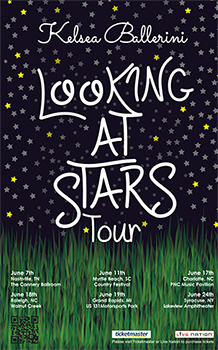
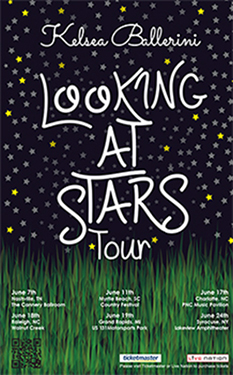
css has changed with the nav and its finsihed.  Content has been added to the main page.  imgaes has been resized

diff --git a/index.html b/index.html
@@ -36,21 +36,23 @@
         
         <div class="container">
             <div class="row">
-                <div class="col-md-3">
-                    <img src="images/posters.jpg" width="250" alt="Looking at Stars">  
+                <div class="col-md-4">
+                    <p> My name is Justine Marie Wood. I'm going to the Art Institute of TN -Nashville to pursue my degree in graphic and web design. My time here, I have learned both sides of graphic and web.  My concertation is Web design and I plan on being a front-end developer when I graduate. </p>
+                    <p> As I graduate school</p>
                 </div>
-                 <div class="col-md-3">
-                    <img src="images/mtrushmore.jpg" width="250" alt="Park Website">
+                    
+                <div class="col-md-4">
+                    <img src="images/posters.jpg" class="img-responsive" alt="Type Animal">
                 </div>
-                <div class="col-md-3">
-                    <img src="images/JWood_typeanimal.jpg" width="250" alt="Type Animal">
+                <div class="col-md-4">
+                    <img src="images/mtrushmore.jpg" class="img-responsive" alt="Park Website">
                 </div>
-                <div class="col-md-3">
-                    <img src="images/prettytrees.jpg" width="250" alt="Pretty Trees Website">
+                <div class="col-md-4">
+                    <img src="images/prettytrees.jpg" class="img-responsive" alt="Pretty Trees Website">
                 </div>
-            </div>
-        </div>
+            </div><!--//.row-->
         <footer> Justine Wood 2016</footer>
+        </div>
     </body>
 </html>
 

diff --git a/mystyle.css b/mystyle.css
@@ -4,7 +4,7 @@ body{
 
 h1{
     font-family: 'Arima Madurai', cursive;
-    font-size: 100px;
+    font-size: 80px;
     text-align: center;
     margin-top: 50px;
 }
@@ -15,7 +15,7 @@ h2{
     margin-top: 50px;
 }
 
-body{
+body {
     font-family: 'Quicksand', sans-serif;
     color:#39004d;
 }
@@ -30,11 +30,11 @@ header{
     background-color: #f2f2f2;
 }
 
-.nav navbar-nav navbar-right li{
+.navbar-default .navbar-brand {
     color: #39004d;
 }
 
-.navbar-nav>li{
+.navbar-default .navbar-nav li a {
     color:#39004d;
 }
 
@@ -48,17 +48,16 @@ nav a:visited{
     text-decoration:none;
 }
 
-
 img{
     padding: 15px;
     margin-left: auto;
     margin-right: auto;
 }
 
-
 footer{
     clear: both;
 }
+
 .centered{
     text-align: center;
 }
